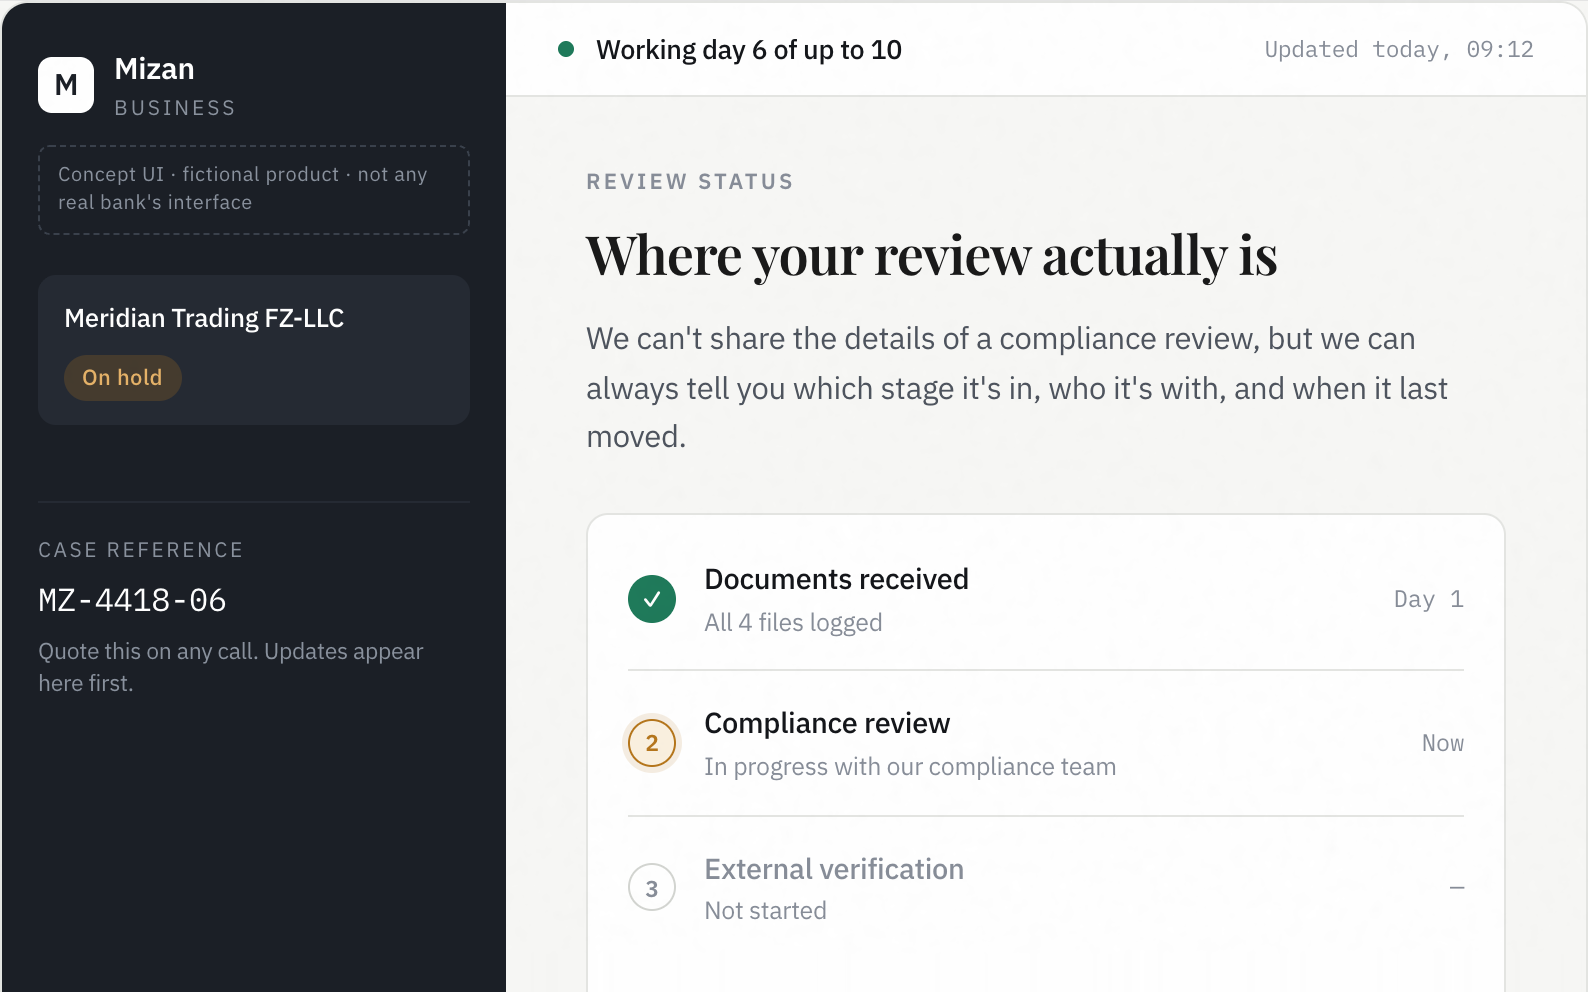
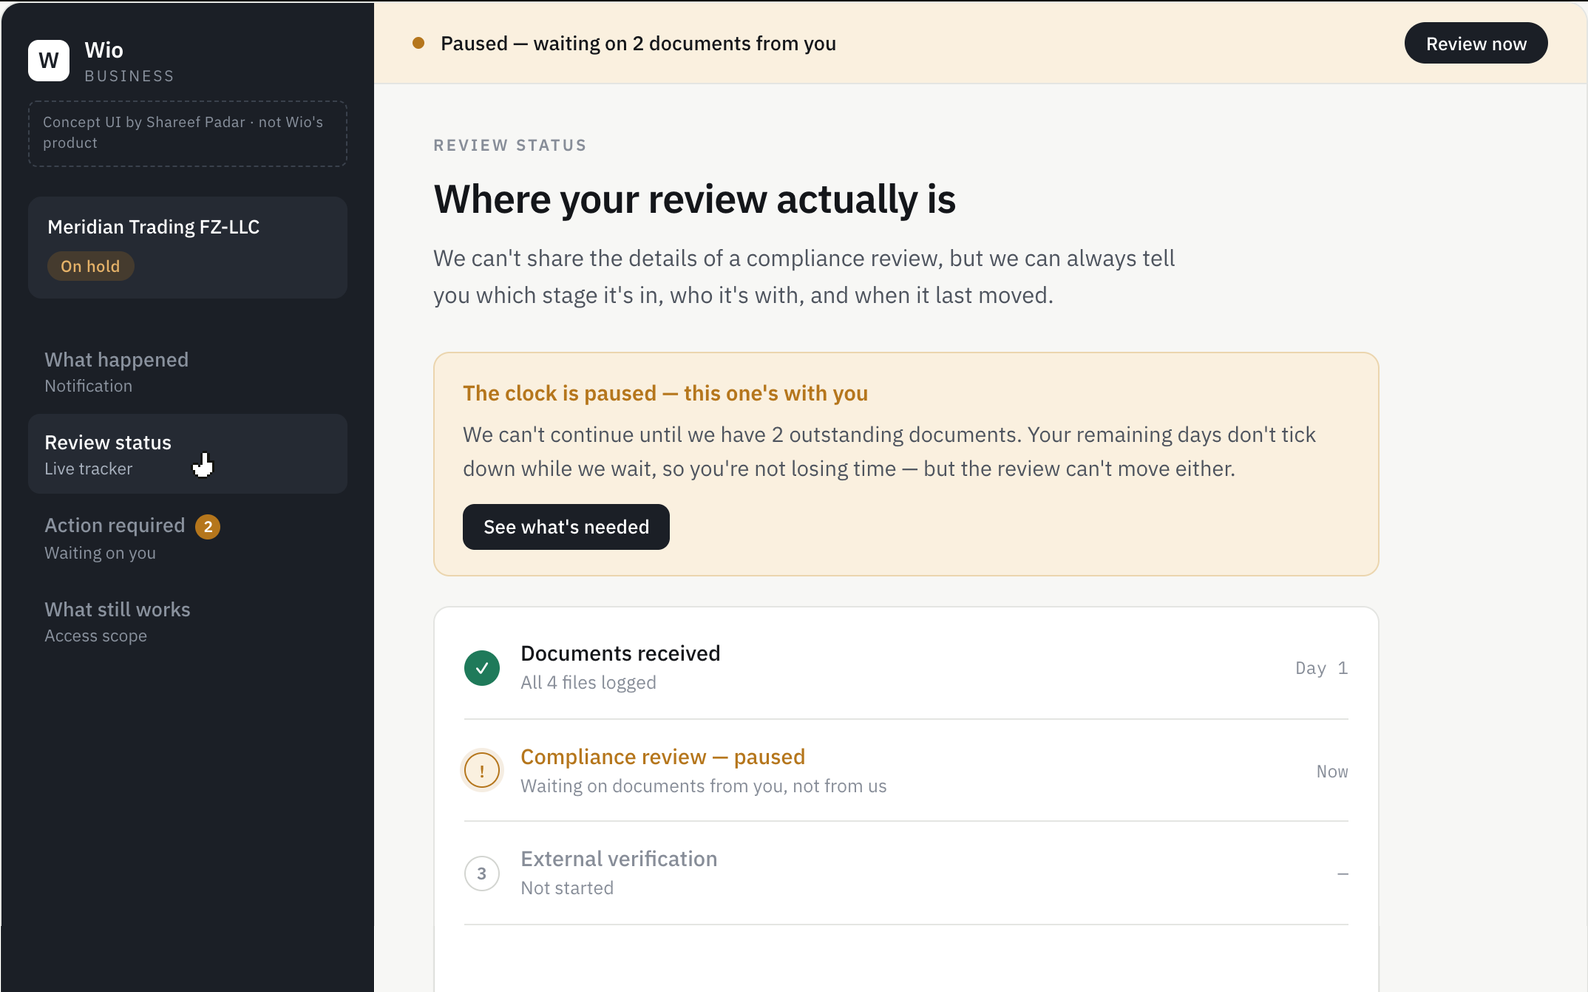
Real-name framing: rewrite Sanad's lead, rebrand Mizan to Wio
Executes the build ticket, with the two studies treated differently on
purpose: Sanad's real subject is a government registry (Companies House),
so it isn't renamed, only reframed to lead with that experience. Mizan's
real subject is a named, cited bank, so the concept product itself now
carries that name — confirmed explicitly before doing this, since it's a
materially different and higher-risk move than the citation that was
already on the page.

SANAD
- Card and body copy drop "fictional", reordered to lead with the real
  Companies House experience rather than the invented wrapper. H1 unchanged.
- New metaTitle/metaDescription (see schema note below). Ticket's literal
  meta description ran 181 characters, 21 over the 160-char limit the ticket
  itself cites as the reason it needs replacing — trimmed to 139 chars,
  same claim, noted inline in lib/work.ts.

WIO (formerly Mizan)
- Route renamed /work/mizan -> /work/wio, with a permanent redirect (308,
  next.js's `permanent: true` — functionally the "301" the ticket asked
  for, method-preserving). content/work/mizan.mdx -> wio.mdx.
- Prototype chrome rebranded: wordmark, "M" mark, case reference, and the
  URL bar. Also rebranded a third disclaimer string inside the prototype's
  own sidebar that wasn't in the ticket's explicit list but is the same
  class of thing.
- Both "what's real, what's mine" callouts and all 6 Shot captions rewritten
  to the hardened disclosure: real problem/Wio's reviews, author's own
[…]

diff --git a/lib/work.ts b/lib/work.ts
@@ -29,7 +29,24 @@ export interface CaseStudy {
   title: string;
   /** The H1. States the problem solved rather than naming the product. */
   headline: string;
+  /**
+   * The on-page overview paragraph, rendered verbatim under the H1. Also the
+   * meta/OG description fallback when metaDescription isn't set — but the
+   * two jobs pull in different directions: this wants to be complete on the
+   * page, a link preview wants to be short and truncate cleanly near 155
+   * characters. Add metaDescription once a study's real description is long
+   * enough that both can't be the same string without one of them losing.
+   */
   description: string;
+  /**
+   * Overrides the <title> tag and OG/Twitter title. Falls back to
+   * `${title} | Shareef Padar` when unset. Exists because `title` also drives
+   * the next-story link text elsewhere, so it has to stay short and
+   * link-shaped — it can't also carry a longer, keyword-bearing SEO title.
+   */
+  metaTitle?: string;
+  /** Overrides the meta/OG/Twitter description. See the note on `description`. */
+  metaDescription?: string;
   role: string;
   type: string;
   duration: string;
@@ -54,7 +71,8 @@ export interface CaseStudy {
     headline: string;
     title: string;
     category: string;
-    badge: "Self-initiated" | "Concept" | "Live";
+    /** Status only — never a discipline or a work type. */
+    badge: "Concept" | "Live";
     description: string;
     thumbnail: string | null;
   };
@@ -77,8 +95,19 @@ export const CASE_STUDIES: CaseStudy[] = [
     slug: "sanad",
     title: "Sanad: KYB Onboarding",
     headline: "Making business verification feel fast without making it less rigorous",
+    // Reordered so the real experience leads and the invented wrapper follows
+    // as a clarification, not the headline fact. Every existing disclosure
+    // (Companies House, the concept-brand admission, the rigor rule) is kept
+    // verbatim — nothing here is new copy, only resequenced.
     description:
-      "New businesses have to prove they're legitimate before they can move money. I hit this wall myself going through Companies House verification, so I designed the full KYB onboarding flow for Sanad, a concept business-banking brand, and built it as a working React prototype. One rule shaped everything: you can't make the process easier by making it less rigorous.",
+      "I hit this wall myself going through UK Companies House to prove a business is legitimate before it can move money. So I designed the full KYB onboarding flow, wrapped in Sanad, a concept business-banking brand, and built it as a working React prototype. One rule shaped everything: you can't make the process easier by making it less rigorous.",
+    // Ticket's literal replacement runs 181 characters — 21 over the 160-char
+    // truncation point the ticket itself cites as the reason this field
+    // exists. Trimmed to the same claim at 139 chars so it actually stops
+    // truncating rather than moving the cutoff.
+    metaTitle: "Making KYB verification feel fast without weakening it",
+    metaDescription:
+      "A six-screen KYB onboarding flow, built after hitting the verification wall at Companies House myself, then audited against its own claims.",
     role: "Product Designer & Builder",
     type: "Product concept",
     duration: "2026",
@@ -92,10 +121,10 @@ export const CASE_STUDIES: CaseStudy[] = [
     card: {
       headline: "Onboarding that feels fast without cutting corners",
       title: "Sanad · KYB verification",
-      category: "B2B Fintech",
+      category: "Fintech",
       badge: "Concept",
       description:
-        "A full six-screen KYB flow for a fictional business bank, designed and built as a working prototype.",
+        "Designed after hitting the verification wall myself at Companies House. Six screens, built as a working prototype.",
       thumbnail: "/assets/work/sanad-thumb.png",
     },
     domain: "FINTECH",
@@ -104,12 +133,19 @@ export const CASE_STUDIES: CaseStudy[] = [
     nextOrder: 5,
   },
   {
-    slug: "mizan",
+    slug: "wio",
+    // `title` stays as-is deliberately: it drives the next-story link text
+    // elsewhere on the site, and it never named the product "Mizan" in the
+    // first place, so it needs no rename. The new SEO-facing title lives in
+    // metaTitle instead, which is exactly what that field is for.
     title: "When the Bank Knows and the Customer Doesn't",
     headline: "When the bank knows and the customer doesn't",
     description:
       'A business account was frozen for an ownership change. Every document went in that day. A month later the account was still frozen, the POS couldn\'t settle, and support said "please wait another 24 hours" on every call for four weeks. The bank knew exactly what stage the review was at. The customer never did. I designed the communication layer that gap leaves missing.',
-    role: "Design & front-end",
+    metaTitle: "When the bank knows and the customer doesn't | Wio account holds",
+    metaDescription:
+      "A communication layer for business accounts frozen mid-review, designed against Wio Bank's dated public complaints. Concept interface, real documented problem.",
+    role: "Product Designer & Builder",
     type: "Product concept",
     duration: "2026",
     outcome:
@@ -121,11 +157,11 @@ export const CASE_STUDIES: CaseStudy[] = [
     bgColor: "#F7F7F5",
     card: {
       headline: "Telling a frozen business where it actually stands",
-      title: "Mizan · account-hold communication",
-      category: "B2B Fintech",
+      title: "Wio · account-hold communication",
+      category: "Fintech",
       badge: "Concept",
       description:
-        "Business accounts frozen for weeks with no stage and no clock. A communication layer built against dated public complaints.",
+        "Business accounts frozen for weeks with no stage and no clock. A communication layer built against Wio Bank's dated public complaints.",
       thumbnail: "/assets/work/mizan-thumb.png",
     },
     domain: "FINTECH",
@@ -151,8 +187,8 @@ export const CASE_STUDIES: CaseStudy[] = [
     card: {
       headline: "Cutting decision fatigue on a top travel platform",
       title: "Almosafer · UX audit",
-      category: "UX Audit",
-      badge: "Self-initiated",
+      category: "Travel",
+      badge: "Concept",
       description:
         "Hick's Law and visual hierarchy applied to two high-stakes screens in the booking funnel.",
       thumbnail: "/assets/almosafer-preview.png",
@@ -180,7 +216,7 @@ export const CASE_STUDIES: CaseStudy[] = [
     card: {
       headline: "Handing off a full route between phones in one scan",
       title: "Google Maps · Route Pass",
-      category: "Product Design",
+      category: "Navigation",
       badge: "Concept",
       description:
         "An encrypted QR handshake for multi-stop navigation, with destination privacy built in.",
@@ -209,7 +245,7 @@ export const CASE_STUDIES: CaseStudy[] = [
     card: {
       headline: "AI publishing that shows its work, not a black box",
       title: "OmniCast AI",
-      category: "Product Design",
+      category: "Marketing",
       badge: "Concept",
       description:
         "Predictive scheduling and inline performance insights, shaped by 8 interviews and 4 competitor audits.",
@@ -238,7 +274,7 @@ export const CASE_STUDIES: CaseStudy[] = [
     card: {
       headline: "Surfacing the local content the algorithm buries",
       title: "Instagram · Local Feed",
-      category: "Product Design",
+      category: "Social",
       badge: "Concept",
       description:
         "A local discovery layer for Instagram: nearby events and businesses, without fighting the algorithm.",
@@ -270,7 +306,7 @@ export const CASE_STUDIES: CaseStudy[] = [
     card: {
       headline: "Ending spreadsheet chaos for a 21-person flat",
       title: "Roomy · Bedspace OS",
-      category: "Side Project",
+      category: "Co-living",
       badge: "Live",
       description:
         "A bedspace management app I designed and built end to end. In daily production use.",
@@ -304,7 +340,7 @@ export const CASE_STUDIES: CaseStudy[] = [
     card: {
       headline: "Health tracking with zero sign-up friction",
       title: "Form · Privacy-first health",
-      category: "Side Project",
+      category: "Health",
       badge: "Live",
       description:
         "A privacy-first, offline-first health tracker I designed and built end to end.",
@@ -328,7 +364,7 @@ export const getStudy = (slug: string): CaseStudy | undefined =>
   CASE_STUDIES.find((s) => s.slug === slug);
 
 /** Homepage: the four featured case studies, then the two live side projects. */
-export const featuredSlugs = ["sanad", "mizan", "almosafer-audit", "google-maps-route-pass"];
+export const featuredSlugs = ["sanad", "wio", "almosafer-audit", "google-maps-route-pass"];
 export const sideProjectSlugs = ["roomy", "form"];
 
 export const featured = featuredSlugs.map((s) => getStudy(s)!).filter(Boolean);

diff --git a/lib/about.ts b/lib/about.ts
@@ -67,7 +67,7 @@ export const PRINCIPLES: Principle[] = [
 export const BIO = [
   "I'm a Senior Product Designer with six years in B2B SaaS, based in Dubai. Logistics, healthcare, gym management, travel. In most of those rooms I was the only designer, which meant doing the research, making the call, drawing the screens, and then sitting with the engineers while it got built. Most of that work sits under NDA, so ask me about it on a call.",
   "At Cargoz I designed Cargoz Connect, a product that gets a business into warehouse space inside 24 hours, from the first wireframe to the live UI, and built the design system six developers now work from. Before that I ran UX for a gym and healthcare ERP, reporting straight to the CEO, which mostly taught me how to defend a design decision to someone who owns the P&L.",
-  "My degree is in computer science, and I treat that as a design advantage rather than a second job. I know what is expensive to build, so I stop proposing it. I can read the codebase to check whether a pattern already exists before inventing another one. And when an idea needs proving, I would rather build it than describe it, which is why the prototypes in the Sanad and Mizan case studies are real working software instead of screenshots.",
+  "My degree is in computer science, and I treat that as a design advantage rather than a second job. I know what is expensive to build, so I stop proposing it. I can read the codebase to check whether a pattern already exists before inventing another one. And when an idea needs proving, I would rather build it than describe it, which is why the prototypes in the Sanad and Wio case studies are real working software instead of screenshots.",
 ];
 
 export const PHILOSOPHY =

diff --git a/components/MizanPrototype.tsx b/components/MizanPrototype.tsx
@@ -2,7 +2,7 @@
 
 import { useState } from "react";
 
-// ── Mizan Business · account hold communication · prototype ──────
+// ── Wio Business · account hold communication · prototype ──────
 // Case study #2 by Shareef Padar. Grounded in dated, public complaints
 // about UAE business banking freezes (ownership/director changes).
 //
@@ -112,12 +112,15 @@ function Rail({ current, onGo, resolved, outstanding }: any) {
   return (
     <aside className="rail">
       <div className="rail-brand">
-        <span className="rail-mark">M</span>
-        <span className="rail-name">Mizan<span className="rail-biz">Business</span></span>
+        <span className="rail-mark">W</span>
+        <span className="rail-name">Wio<span className="rail-biz">Business</span></span>
       </div>
 
+      {/* Same hardened framing as the page's disclaimer callouts, condensed
+          to fit a one-line rail strapline: designed by me, not Wio's actual
+          product. */}
       <p className="rail-disclaimer">
-        Concept UI · fictional product · not any real bank's interface
+        Concept UI by Shareef Padar · not Wio's product
       </p>
 
       <div className="rail-acct">
@@ -153,7 +156,7 @@ function Rail({ current, onGo, resolved, outstanding }: any) {
 
       <div className="rail-foot">
         <span className="rail-foot-k">Case reference</span>
-        <span className="rail-foot-v">MZ-4418-06</span>
+        <span className="rail-foot-v">WIO-4418-06</span>
         <span className="rail-foot-note">Quote this on any call. Updates appear here first.</span>
       </div>
     </aside>

diff --git a/app/work/[slug]/page.tsx b/app/work/[slug]/page.tsx
@@ -16,7 +16,7 @@ const mdxMap: Record<string, React.ComponentType> = {
   "omni-cast-ai": dynamic(() => import("@/content/work/omni-cast-ai.mdx")),
   "almosafer-audit": dynamic(() => import("@/content/work/almosafer-audit.mdx")),
   "sanad": dynamic(() => import("@/content/work/sanad.mdx")),
-  "mizan": dynamic(() => import("@/content/work/mizan.mdx")),
+  "wio": dynamic(() => import("@/content/work/wio.mdx")),
   "instagram-local": dynamic(() => import("@/content/work/instagram-local.mdx")),
   "roomy": dynamic(() => import("@/content/work/roomy.mdx")),
   "form": dynamic(() => import("@/content/work/form.mdx")),
@@ -35,18 +35,23 @@ export async function generateMetadata({
   const project = getStudy(slug);
   if (!project) return { title: "Project | Shareef Padar" };
 
+  const title = project.metaTitle
+    ? `${project.metaTitle} | Shareef Padar`
+    : `${project.title} | Shareef Padar`;
+  const description = project.metaDescription ?? project.description;
+
   return {
-    title: `${project.title} | Shareef Padar`,
-    description: project.description,
+    title,
+    description,
     openGraph: {
-      title: `${project.title} | Shareef Padar`,
-      description: project.description,
+      title,
+      description,
       images: [{ url: project.imageUrl }],
     },
     twitter: {
       card: "summary_large_image",
-      title: `${project.title} | Shareef Padar`,
-      description: project.description,
+      title,
+      description,
       images: [project.imageUrl],
     },
   };
